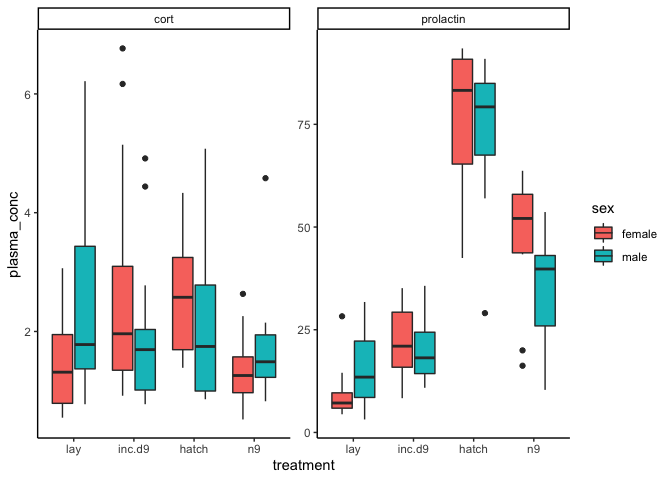
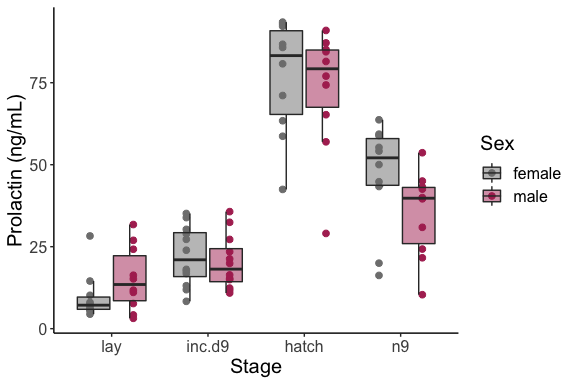
better figures, with and without stats

diff --git a/analysis/07_hormones.md b/analysis/07_hormones.md
@@ -1,13 +1,13 @@
     library(tidyverse)
 
-    ## ── Attaching packages ───────────────────────────────────────────────────────────────────────────────── tidyverse 1.3.0 ──
+    ## ── Attaching packages ────────────────────────────────────────────────────────────────────────────────── tidyverse 1.3.0 ──
 
     ## ✔ ggplot2 3.2.1     ✔ purrr   0.3.3
     ## ✔ tibble  2.1.3     ✔ dplyr   0.8.3
     ## ✔ tidyr   1.0.0     ✔ stringr 1.4.0
     ## ✔ readr   1.3.1     ✔ forcats 0.4.0
 
-    ## ── Conflicts ──────────────────────────────────────────────────────────────────────────────────── tidyverse_conflicts() ──
+    ## ── Conflicts ───────────────────────────────────────────────────────────────────────────────────── tidyverse_conflicts() ──
     ## ✖ dplyr::filter() masks stats::filter()
     ## ✖ dplyr::lag()    masks stats::lag()
 
@@ -30,6 +30,8 @@
     ## The following object is masked from 'package:base':
     ## 
     ##     date
+
+    library(ggsignif)
 
     source("../R/themes.R")  # load custom themes and color palletes
     source("../R/icons.R")
@@ -609,14 +611,77 @@ for rechelle
                     treatment %in% c("lay", "inc.d9", "hatch", "n9")) %>%
       dplyr::select(-icons, -music, -iconpath, -okay)
        
-    ggplot(rechelle, aes(x = treatment, y = plasma_conc, fill = sex)) +
-        geom_boxplot() + 
-        theme(axis.text.x = element_text(angle = 45, hjust = 1),
+    rechelle$hormone <- factor(rechelle$hormone, levels = c("prolactin", "cort"))
+
+    prl.rechelle <- rechelle %>% filter(hormone == "prolactin")   %>%  droplevels()
+    cort.rechelle <- rechelle %>% filter(hormone == "cort")   %>%  droplevels()
+
+    TukeyHSD(aov(plasma_conc ~  treatment, data=prl.rechelle))
+
+    ##   Tukey multiple comparisons of means
+    ##     95% family-wise confidence level
+    ## 
+    ## Fit: aov(formula = plasma_conc ~ treatment, data = prl.rechelle)
+    ## 
+    ## $treatment
+    ##                    diff        lwr       upr     p adj
+    ## inc.d9-lay     8.646903  -1.704891  18.99870 0.1343466
+    ## hatch-lay     62.492635  51.680540  73.30473 0.0000000
+    ## n9-lay        28.375968  17.563873  39.18806 0.0000000
+    ## hatch-inc.d9  53.845733  43.493939  64.19753 0.0000000
+    ## n9-inc.d9     19.729065   9.377272  30.08086 0.0000195
+    ## n9-hatch     -34.116667 -44.928763 -23.30457 0.0000000
+
+    TukeyHSD(aov(plasma_conc ~  treatment, data=cort.rechelle))
+
+    ##   Tukey multiple comparisons of means
+    ##     95% family-wise confidence level
+    ## 
+    ## Fit: aov(formula = plasma_conc ~ treatment, data = cort.rechelle)
+    ## 
+    ## $treatment
+    ##                       diff        lwr       upr     p adj
+    ## inc.d9-lay    0.3318847747 -0.6465388 1.3103084 0.8112203
+    ## hatch-lay     0.3326067238 -0.7997396 1.4649531 0.8683277
+    ## n9-lay       -0.4044791498 -1.5535794 0.7446211 0.7935749
+    ## hatch-inc.d9  0.0007219491 -1.0245257 1.0259696 1.0000000
+    ## n9-inc.d9    -0.7363639244 -1.7800860 0.3073582 0.2586385
+    ## n9-hatch     -0.7370858735 -1.9263089 0.4521372 0.3714463
+
+    rechelleplot <- function(mydf, myylab){
+      
+      p <- ggplot(mydf, aes(x = treatment, y = plasma_conc, fill = sex)) +
+      geom_point(aes(color = sex), position = position_dodge(0.9), size = 2)+
+      geom_boxplot(alpha = 0.5, outlier.shape = NA) +
+      scale_color_manual(name = "Sex", values = c("gray50", "maroon"))+
+      scale_fill_manual(name = "Sex", values = c("gray50", "maroon"))+
+
+      theme(axis.text.x = element_text(angle = 45, hjust = 1),
              legend.position = "none",
               strip.text = element_blank()) +
-      facet_wrap(~hormone, scales = "free_y") +
-      theme_B3()
+        theme_classic()+
+      theme(text = element_text(size= 15)) +
+        labs(x = "Stage", y = myylab) 
+      return(p)
+
+    }
+
+    #PRL
+    rechelleplot(prl.rechelle, "Prolactin (ng/mL)")
 
 ![](../figures/hormones/forrechelle-1.png)
 
-    write.csv(rechelle, "../results/07_forrechelle.csv")
+    rechelleplot(prl.rechelle, "Prolactin (ng/mL)") + 
+      scale_y_continuous(breaks = c(0,25,50,75,100, 125), limits = c(-20,125)) +
+      geom_signif(comparisons=list(c("lay", "hatch")), annotations= "p < 0.001", y_position = 100, tip_length = 0.05, vjust = 0, color= "black" , textsize = 5 ) +
+      geom_signif(comparisons=list(c("lay", "n9")), annotations= "p < 0.001", y_position = 110, tip_length = 0.05, vjust = 0, color= "black" , textsize = 5 ) +
+      geom_signif(comparisons=list(c("hatch", "n9")), annotations= "p < 0.001", y_position = 120, tip_length = 0.05, vjust = 0, color= "black" , textsize = 5 ) +
+      geom_signif(comparisons=list(c("inc.d9", "hatch")), annotations= "p < 0.001", y_position = -5, tip_length = -0.05, vjust = 2, color= "black" , textsize = 5 ) +
+      geom_signif(comparisons=list(c("inc.d9", "n9")), annotations= "p < 0.001", y_position = -15, tip_length = -0.05, vjust = 2, color= "black" , textsize = 5 )
+
+![](../figures/hormones/forrechelle-2.png)
+
+    #CORT
+    rechelleplot(cort.rechelle, "Corticosterone (ng/mL)")
+
+![](../figures/hormones/forrechelle-3.png)
